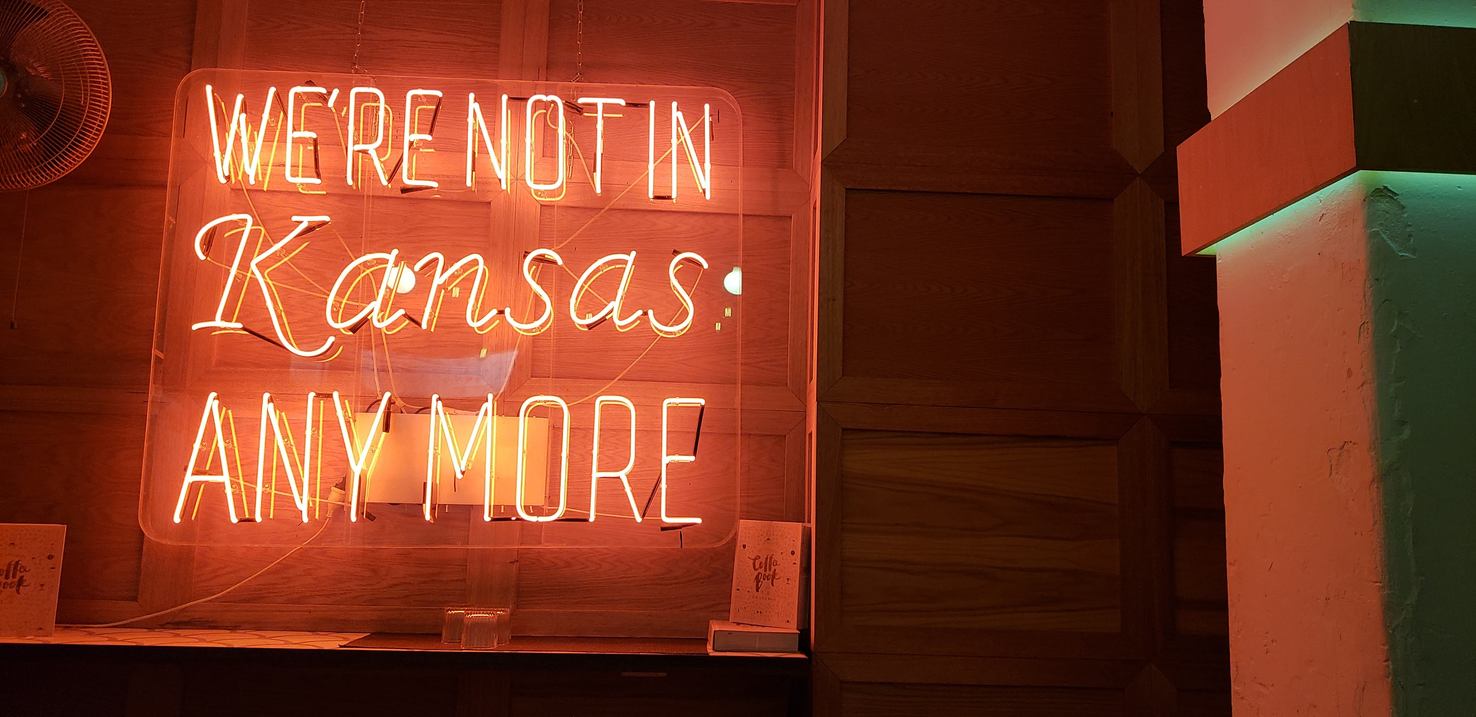
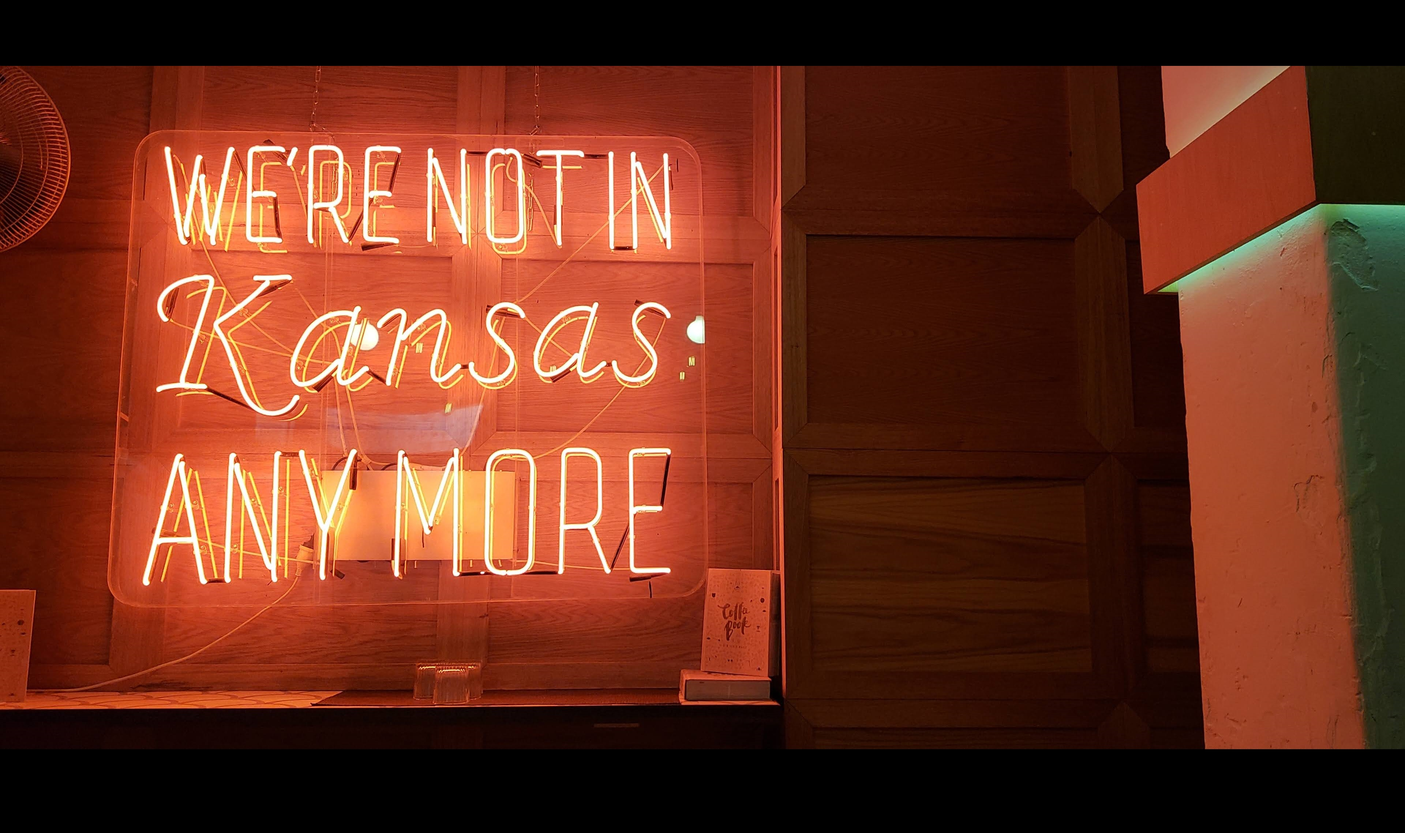
new background image for the home page

diff --git a/index.html b/index.html
@@ -5,9 +5,15 @@
     <meta name="viewport" content="width=device-width, initial-scale=1.0">
     <title>Brenna McLeod</title>
     <link href="https://cdn.jsdelivr.net/npm/bootstrap@5.0.0-beta1/dist/css/bootstrap.min.css" rel="stylesheet" integrity="sha384-giJF6kkoqNQ00vy+HMDP7azOuL0xtbfIcaT9wjKHr8RbDVddVHyTfAAsrekwKmP1" crossorigin="anonymous">
+    <script src="https://kit.fontawesome.com/faca15df7c.js" crossorigin="anonymous"></script>
+    <link href="https://unpkg.com/tailwindcss@^2/dist/tailwind.min.css" rel="stylesheet">
 </head>
 
-  <body>
+  <body class="bg-green-800" style="background-image: url(assets/images/kc-shuffle.jpg);
+  background-size: cover;
+  background-repeat: no-repeat;
+  background-position: top right;
+  background-origin: padding-box;">
     <header>
       <nav class="navbar navbar-expand-md navbar-dark bg-dark">
 
@@ -17,7 +23,7 @@
           Clases/various tags within the button tag allows it to collapse and transform into hamburger menu
         -->
         <div class="container-fluid">
-          <a class="navbar-brand" href="index.html">Brenna McLeod</a>
+          <a class="navbar-brand fas fa-home" href="index.html"></a>
           <button class="navbar-toggler" type="button" data-bs-toggle="collapse" data-bs-target="#navbarTogglerDemo02" aria-controls="navbarTogglerDemo02" aria-expanded="false" aria-label="Toggle navigation">
             <span class="navbar-toggler-icon"></span>
           </button>
@@ -28,7 +34,7 @@
           <div class="collapse navbar-collapse" id="navbarTogglerDemo02">
             <ul class="navbar-nav me-auto mb-2 mb-lg-0">
               <li class="nav-item">
-                <a class="nav-link active" aria-current="page" href="about.html">About</a>
+                <a class="nav-link" aria-current="page" href="about.html">About</a>
               </li>
               <li class="nav-item">
                 <a class="nav-link" href="portfolio.html">Portfolio</a>
@@ -45,32 +51,15 @@
     <!--Outlines the bulk of the page-->
     <main>
       <article>
-
-        <!--Creates a new container with padding and margin; bg-success gives it a green background-->
-        <div class="container-fluid p-3 pb-5 mb-2 bg-success">
-          
-          <!--Creates a new row with a four-column wide image that will float with the text-->
-          <div class="row-fluid">
-              <div class="col-sm-4">
-                  <img src="assets\images\mcleod.PNG" class="float-start img-fluid p-3" alt="Brenna McLeod smiling on a hike in Kentucky">
-              </div>
-                  
-              <!--Creates a new container spanning all 12 columns with paragraphs about me-->
-              <div class="col-sm-12">
-                  <p class="text-light py-3">
-                    Brenna McLeod enjoys anything outdoorsy, learning about animals, working with her hands, cooking, browsing at Michael's, and writing lots and lots of blogs about herself and how great she is. She spends so much time thinking about what to write about herself it's honestly astounding. Her favorite thing in the world is to gush about how amazing she thinks she is, especially in a class that's focused on problem-solving and not thinking about yourself. What could be more fun than public introspection at a time when all there is to do is be introspective? There are not many people in the world who love themselves more than she does and she was just chomping at the bit to show the whooooole class what a stellar person she is. Wow, we should all be like her.
-                  </p>
-
-                  <p class="text-light pb-3">
-                    Brenna has been trying to speak fluent Spanish for the last 10 years but is dismayed to find herself landlocked and very far from any Spanish-speaking countries. She has a plan to visit Spain as soon as the pandemic restrictions on travel are lifted so she can walk El Camino. It's a month-long pilgrimage from the border of France to the coast of Spain and would bring invaluable experiences, memories, and connections. Not to mention how awesome the food would be and how much she plans on eating since the points don't matter and the calories don't count when she'd be walking all day.
-                  </p>
-
-                  <p class="text-light pb-3">
-                    Brenna works for a security company and refuses to participate in social media aside from LinkedIn, so you won't find many social media links here. She could be on her soapbox for about 5 years explaining how terrible social media is for almost everything. She has no patience for self-indulgence and just please don't get her started because even she doesn't want to hear herself talk about it.
-                  </p>
-              </div>
+        <div class="col-md-4 p-4 offset-md-7">
+          <div class="card bg-gray-600 bg-opacity-60 text-gray-50">
+            <div class="card-body">
+              <h5 class="card-title text-3xl">Hi, I'm Brenna.</h5>
+              <p class="card-text text-5xl py-3">Kansas City-based developer coming to a job near you.</p>
+              <a href="about.html" class="btn bg-green-800 text-gray-50 my-3">Learn More</a>
             </div>
-        </div> 
+          </div>
+        </div>
       </article>
     </main>
   

diff --git a/about.html b/about.html
@@ -50,7 +50,7 @@
         <div class="container p-3 pb-5 mb-2 mt-3 bg-success">
           <div class="row">
               <div class="col-sm-12">
-                <h1 class="text-light mt-3 ms-3">About Me</h1>
+                <h1 class="text-light mt-3 ms-3">About Brenna McLeod</h1>
               </div>
           </div>
           
@@ -64,14 +64,6 @@
               <div class="col-sm-12">
                   <p class="text-light py-3">
                     Brenna McLeod enjoys anything outdoorsy, learning about animals, working with her hands, cooking, browsing at Michael's, and writing lots and lots of blogs about herself and how great she is. She spends so much time thinking about what to write about herself it's honestly astounding. Her favorite thing in the world is to gush about how amazing she thinks she is, especially in a class that's focused on problem-solving and not thinking about yourself. What could be more fun than public introspection at a time when all there is to do is be introspective? There are not many people in the world who love themselves more than she does and she was just chomping at the bit to show the whooooole class what a stellar person she is. Wow, we should all be like her.
-                  </p>
-
-                  <p class="text-light pb-3">
-                    Brenna has been trying to speak fluent Spanish for the last 10 years but is dismayed to find herself landlocked and very far from any Spanish-speaking countries. She has a plan to visit Spain as soon as the pandemic restrictions on travel are lifted so she can walk El Camino. It's a month-long pilgrimage from the border of France to the coast of Spain and would bring invaluable experiences, memories, and connections. Not to mention how awesome the food would be and how much she plans on eating since the points don't matter and the calories don't count when she'd be walking all day.
-                  </p>
-
-                  <p class="text-light pb-3">
-                    Brenna works for a security company and refuses to participate in social media aside from LinkedIn, so you won't find many social media links here. She could be on her soapbox for about 5 years explaining how terrible social media is for almost everything. She has no patience for self-indulgence and just please don't get her started because even she doesn't want to hear herself talk about it.
                   </p>
               </div>
             </div>
